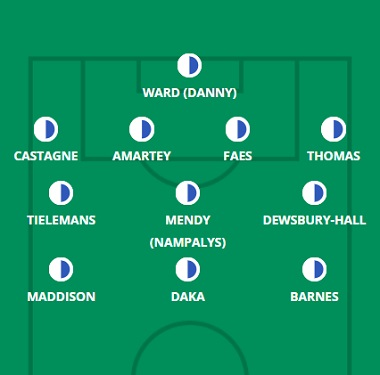
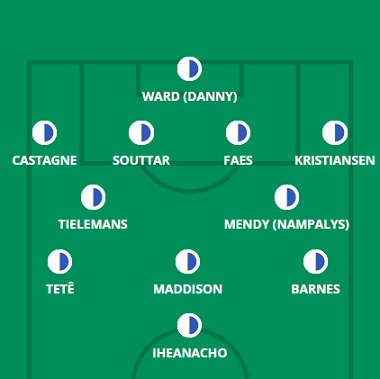
6/20

diff --git a/south.html b/south.html
@@ -63,15 +63,15 @@
     <hgroup>
         <h1> Provável Escalação</h1>
         <h2 class="direita"> por FabioVascão </h2>
-        <h3 class="direita"> Atualizado em 03/Fevereiro/2023 </h3>
+        <h3 class="direita"> Atualizado em 10/Fevereiro/2023 </h3>
     </hgroup>
 
     <div class="selecao"><p><b><img src="images/logos/southampton.png" width="100rem" height="100rem"/> Southampton</b></p></div>
        
     <div class="escalacao">
         <div class="topo">
-            <h2 class="titulo">Ultimas Notícias</h2> <h4><p>Nathan Jones disse na sexta-feira que a desistência de Kyle Walker-Peters contra o Newcastle United no meio da semana foi "precautiva", mas que ele ainda não pode começar em Brentford, enquanto Stuart Armstrong (virilha) e Juan Larios (músculo) devem permanecer de fora apesar de serem descrito como "mais próximo" de um retorno. Há mais confusão em outros lugares também. Quatro veteranos - Moussa Djenepo, Armel Bella-Kotchap, Mislav Orsic e Duje Caleta-Car - jogaram pelo Southampton 'B' na tarde de sexta-feira em uma tentativa de aumentar a preparação física, enquanto as contratações do último dia Paul Onuachu e Kamaldeen Sulemana nem havia treinado quando Jones enfrentou a mídia, com burocracia e autorizações de trabalho entre eles e a estreia na Gameweek 22. A formação de cinco defesas pode não ser a favorita dos torcedores, nem funcionou bem em Newcastle, mas as forças aéreas de Brentford podem convencer Jones a manter essa configuração contra Ivan Toney e companhia, com Jan Bednarek agora de volta do Villa para reforçar o números na parte de trás. O descanso de Romeo Lavia no meio da semana sugere que ele voltará a se envolver aqui, enquanto Romain Perraud pode ser chamado de volta se Walker-Peters não estiver em risco. Sekou Mara é uma alternativa a Adam Armstrong no topo, enquanto Samuel Edozie e Moi Elyounoussi são opções se a largura for preferida; é difícil imaginar Orsic ou Djenepo jogando duas vezes em 24 horas, no entanto.</p></h4><br>
-            <h4><strong>Dúvidas:</strong>  Livramento, Juan Larios, Armstron, McCarthy e Walker-Peters.</h4>
+            <h2 class="titulo">Ultimas Notícias</h2> <h4><p>Tino Livramento (joelho) e Juan Larios (músculo) permanecem de fora, enquanto Nathan Jones foi tímido sobre as chances de Kyle Walker-Peters (coxa) e Stuart Armstrong (virilha) aparecerem ao dizer que a dupla estava "muito mais à frente" do que Larios, mas acrescentando que o Saints só vai "colocá-los em jogos quando estiverem prontos". O Southampton XI é provavelmente um dos mais difíceis de prever esta semana, dada a frequência com que Jones muda sua escalação em uma tentativa de interromper uma sequência alarmante de resultados da liga. O chefe do Saints disse após a derrota para Brentford que havia "comprometido em termos de certos princípios" e "afastado" do que lhe trouxe sucesso em Luton, acrescentando que "não vai fazer isso de novo". Se for uma promessa tática, então há uma chance de vermos o retorno do sistema lateral que lhe trouxe algum sucesso com os Hatters, embora escolhendo qualquer combinação de Lyanco, Jan Bednarek, Mohammed Salisu, Duje Caleta-Car e Armel Bella- Kotchap é um jogo de dados, com os dois últimos curiosamente envolvidos em uma partida do time B 24 horas antes da Gameweek 22. Ibrahima Diallo e Moi Elyounoussi podem ser escolhidos após desistências no intervalo no oeste de Londres, com os recém-chegados Paul Onuachu e Charly Alcaraz empurrando para começar. Sekou Mara, Adam Armstrong, Mislav Orsic, Samuel Edozie e Theo Walcott são outras alternativas nas posições de ataque, mas Jones talvez tenha insinuado que Kamaldeen Sulemana não estaria pronto para começar, dizendo que o Saints "não pode simplesmente açoitar" o ala após uma falta de minutos com o ex-clube Rennes.</p></h4><br>
+            <h4><strong>Dúvidas:</strong>  Livramento, Armstron, McCarthy e Walker-Peters.</h4>
         </div>
         <aside>
             <figure>

diff --git a/nforest.html b/nforest.html
@@ -63,15 +63,15 @@
     <hgroup>
         <h1> Provável Escalação</h1>
         <h2 class="direita"> por FabioVascão </h2>
-        <h3 class="direita"> Atualizado em 03/Fevereiro/2023 </h3>
+        <h3 class="direita"> Atualizado em 10/Fevereiro/2023 </h3>
     </hgroup>
 
     <div class="selecao"><p><b><img src="images/logos/nforest.png" width="100rem" height="100rem"/> N. Forest</b></p></div>
        
     <div class="escalacao">
         <div class="topo">
-            <h2 class="titulo">Ultimas Notícias</h2> <h4><p> Dean Henderson (coxa), Omar Richards (perna), Giulian Biancone (ACL), Moussa Niakhate (coxa), Cheikhou Kouyate (coxa), Jesse Lingard (Aquiles), Taiwo Awoniyi (virilha), Ryan Yates (doença), Morgan Gibbs -White (tornozelo) e o novo garoto Jonjo Shelvey (panturrilha) parecem perder a visita de Leeds, com Jack Colback (doença) o único jogador que Steve Cooper disse que Forest receberia de volta neste fim de semana - embora ele não tenha mencionado Chris Wood (doença), que estava empatado no meio da semana de qualquer maneira. Tudo isso não deixa Cooper com muito o que jogar, apesar da enorme quantidade de atividades de transferência, com dois novos recrutas - Danilo Pereira e Gustavo Scarpa - potencialmente prontos para entrar na Gameweek 21, Yates e Gibbs-White, respectivamente. Emmanuel Dennis e Sam Surridge são alternativas no topo se Wood ainda não tiver se recuperado totalmente, enquanto Keylor Navas pode fazer sua estreia entre os postes às custas do pobre Wayne Hennessey; No entanto, Navas chegou no prazo final, portanto, existe a possibilidade de que alguma burocracia não tenha sido eliminada. Os quatro defensores foram amplamente resolvidos nas últimas seis semanas de jogo, com três jogos sem sofrer golos chegando no processo.</p></h4><br>
-            <h4><strong>Dúvidas:</strong> Biancone, Kouyaté, Shelvey, Yates, Henderson, Wood, Niakhaté, Gibbs-White, Awoniyi, Boly, Lingard e Richards (Omar).</h4>
+            <h2 class="titulo">Ultimas Notícias</h2> <h4><p> Aprendemos até agora a não confiar muito no que Steve Cooper diz nas notícias da equipe, mas na quinta-feira, ele deu a entender que Dean Henderson (coxa), Moussa Niakhate (coxa), Cheikhou Kouyate (coxa), Taiwo Awoniyi (virilha) e Ryan Yates (doença) permaneceria afastado antes do jogo contra o Fulham. Giulian Biancone (ACL) e Omar Richards (perna) também são ausentes de longa data e ficaram de fora dos 25 convocados do Forest para o segundo semestre de 2022/23. O novato Jonjo Shelvey (panturrilha) esteve na grama esta semana e está “perto”, no entanto, então pudemos ver o ex-craque do Newcastle no elenco do Forest pela primeira vez. Cooper manteve as coisas relativamente resolvidas ultimamente após um início de temporada turbulento em termos de entradas e saídas: os recém-chegados Danilo, Chris Wood e Keylor Navas praticamente vieram direto para o lado, enquanto todos os outros no previsto XI bar Scott McKenna e Serge Aurier iniciaram todas as partidas da liga para as quais estiveram disponíveis desde o reinício do Boxing Day. Jack Colback e Sam Surridge foram desviados da hierarquia em meio ao influxo de recém-chegados, mas impressionaram fora do banco no último fim de semana e esperam obter raros começos à frente de duas contratações que não atingiram o solo correndo na forma de Danilo e Wood, com Gustavo Scarpa e Jesse Lingard também alternativos.</p></h4><br>
+            <h4><strong>Dúvidas:</strong> Biancone, Kouyaté, Shelvey, Yates, Henderson, Niakhaté, Awoniyi e Richards (Omar).</h4>
         </div>
         <aside>
             <figure>

diff --git a/liverpool.html b/liverpool.html
@@ -63,15 +63,15 @@
     <hgroup>
         <h1> Provável Escalação</h1>
         <h2 class="direita"> por FabioVascão </h2>
-        <h3 class="direita"> Atualizado em 03/Fevereiro/2023 </h3>
+        <h3 class="direita"> Atualizado em 10/Fevereiro/2023 </h3>
     </hgroup>
 
     <div class="selecao"><p><b><img src="images/logos/liverpool.png" width="100rem" height="100rem"/> Liverpool</b></p></div>
        
     <div class="escalacao">
         <div class="topo">
-            <h2 class="titulo">Ultimas Notícias</h2> <h4><p> Virgil van Dijk (coxa), Arthur (músculo), Diogo Jota (coxa), Luis Diaz (joelho) e Roberto Firmino (panturrilha) estão perto de retornar, mas permanecem de fora, enquanto Ibrahima Konate se juntou a eles devido a uma lesão muscular. Joe Gomez e Joel Matip parecem prestes a começar no meio-campo, enquanto Jurgen Klopp parecia insinuar que Stefan Bajcetic manteria seu lugar ao discutir a queda de Fabinho na sala de máquinas. A escalação que você vê aqui é a que apareceu na FA Cup no fim de semana passado, com exceção de Matip no lugar do ausente Konate. O sistema parecia mais 4-2-3-1 às vezes e viu Naby Keita e Harvey Elliott oferecerem largura, com Cody Gakpo caindo mais fundo e Mohamed Salah jogando mais avançado. Apesar da derrota no Amex, Klopp disse que a exibição o encorajou - então pode não haver mudanças no Molineux. Um jogador que luta pela reconvocação, é claro, é Darwin Nunez, mas o desempenho positivo de Elliott contra o Brighton não torna fácil para o uruguaio recuperar sua vaga. Jordan Henderson e Curtis Jones são outras alternativas no meio-campo, com Alex Oxlade-Chamberlain outra opção entre os três primeiros.</p></h4><br>
-            <h4><strong>Dúvidas:</strong> Firmino, Díaz, Arthur, Diogo Jota, Van Dijk, Konate e Carvalho.</h4>
+            <h2 class="titulo">Ultimas Notícias</h2> <h4><p> Luis Diaz (joelho) e Ibrahima Konate (músculo) permanecem afastados e Thiago Alcantara (quadril) está em dúvida depois de não treinar durante toda a semana, mas o Liverpool recebeu um grande impulso com o retorno aos treinos de Virgil van Dijk (coxa), Arthur Melo (músculo), Diogo Jota (coxa) e Roberto Firmino (panturrilha). Jota parece o mais próximo de uma participação e van Dijk o menos provável de se envolver no derby de Merseyside com base nos comentários pré-jogo de Jurgen Klopp, mas qualquer que seja a combinação de estrelas em forma novamente no elenco em Anfield, seria um choque se algum deles eles são tudo menos substitutos. As perspectivas de Fabinho como titular também estão em questão, apesar de seu retorno aos treinos após doença, com Stefan Bajcetic recebendo elogios de seu técnico recentemente e novamente impressionando na derrota para o Wolves. Jordan Henderson pode conseguir um recall aqui se Thiago não conseguir se recuperar, com Harvey Elliott, James Milner e Curtis Jones como alternativas na sala de máquinas - provavelmente nessa ordem de probabilidade. Elliott teve o azar de perder seu lugar no primeiro lugar em Molineux e estará pressionando para ser incluído entre os três primeiros, com o lugar de Cody Gakpo talvez mais em disputa depois de outra exibição mais ou menos. Na defesa, não se surpreenda se Nat Phillips entrar em disputa no meio-campo, dada a probabilidade de Everton, de Sean Dyche, encher a área da casa com cruzamentos e bolas altas.</p></h4><br>
+            <h4><strong>Dúvidas:</strong> Firmino, Díaz, Arthur, Diogo Jota, Van Dijk, Konate, Fabinho e Alcantara.</h4>
         </div>
         <aside>
             <figure>

diff --git a/leicester.html b/leicester.html
@@ -63,15 +63,15 @@
     <hgroup>
         <h1> Provável Escalação</h1>
         <h2 class="direita"> por FabioVascão </h2>
-        <h3 class="direita"> Atualizado em 03/Fevereiro/2023 </h3>
+        <h3 class="direita"> Atualizado em 10/Fevereiro/2023 </h3>
     </hgroup>
 
     <div class="selecao"><p><b><img src="images/logos/leicester.png" width="100rem" height="100rem"/> Leicester</b></p></div>
        
     <div class="escalacao">
         <div class="topo">
-            <h2 class="titulo">Ultimas Notícias</h2> <h4><p> Jamie Vardy pode ter um retorno mais rápido do que o esperado de uma lesão no glúteo neste fim de semana, tendo sido originalmente descartado por quinze dias antes do empate da FA Cup no fim de semana passado contra Walsall. Ele e a nova contratação Harry Souttar (quadril) serão avaliados antes da viagem para o Aston Villa, mas Jonny Evans (panturrilha), Boubakary Soumaré (tendão da coxa), Ricardo Pereira (Aquiles), Wilfred Ndidi (problema pessoal), James Justin (Aquiles ) e Sammy Braybrooke (joelho) não estarão presentes, com Evans, Pereira e Soumare prontos para intensificar suas recuperações na próxima semana. Patson Daka será o favorito para liderar a linha caso Vardy perca ou não seja arriscado no pontapé de saída, com Kelechi Iheanacho continuamente esquecido como opção inicial por Brendan Rodgers. O defesa-central Souttar, o ponta-direita Tete e o lateral-esquerdo Victor Kristiansen chegaram desde a jornada 21 e Kristiansen é talvez o melhor colocado para começar, tendo experimentado minutos e impressionado como suplente na vitória da taça sobre Walsall. Rodgers disse antes e depois da eliminatória que o dinamarquês estava "um pouco atrasado em termos de preparação física" por causa das férias de inverno em sua terra natal, então Luke Thomas pode ter uma suspensão da execução por enquanto.</p></h4><br>
-            <h4><strong>Dúvidas:</strong> Ricardo Pereira, Braybrooke, Bertrand, Dewsbury-Hall, Evans, Justin, Souttar, Soumaré e Vardy.</h4>
+            <h2 class="titulo">Ultimas Notícias</h2> <h4><p> James Justin (Aquiles) e Sammy Braybrooke (joelho) estão ausentes há muito tempo e Ryan Bertrand (joelho) continua sem condição física para o jogo, mas Wilfred Ndidi (problema pessoal) deve retornar neste fim de semana e há um retorno há muito esperado para Ricardo Pereira (Aquiles ), depois de ter participado de um amistoso no campo de treinamento na terça-feira. Jonny Evans (panturrilha) e Boubakary Soumaré (coxa) também voltaram a treinar esta semana: o primeiro será “avaliado” antes da partida do Spurs, enquanto Soumare parece mais provável de participar da 24ª rodada. com a mesma equipa, com os estreantes Tete e Victor Kristiansen particularmente excelentes nas Midlands. Se houver uma mudança, provavelmente será no meio do parque às custas de Youri Tielemans ou Kiernan Dewsbury-Hall; os Foxes pareciam um pouco suspeitos na retaguarda em Villa Park, então Ndidi ou Nampalys Mendy poderiam ser convocados para fornecer um pouco mais de segurança na frente dos quatro defensores. Rodgers falou sobre as credenciais de Kelechi Iheanacho para sugerir que ele pode vencer Patson Daka e Jamie Vardy novamente no topo, com esses dois atacantes prontos para se juntar a nomes como Pereira, Caglar Soyuncu e Dennis Praet no banco no sábado.</p></h4><br>
+            <h4><strong>Dúvidas:</strong> Braybrooke, Bertrand, Evans, Justin e Soumaré.</h4>
         </div>
         <aside>
             <figure>

diff --git a/spurs.html b/spurs.html
@@ -63,15 +63,15 @@
     <hgroup>
         <h1> Provável Escalação</h1>
         <h2 class="direita"> por FabioVascão </h2>
-        <h3 class="direita"> Atualizado em 03/Fevereiro/2023 </h3>
+        <h3 class="direita"> Atualizado em 10/Fevereiro/2023 </h3>
     </hgroup>
 
     <div class="selecao"><p><b><img src="images/logos/tottenham.png" width="100rem" height="100rem"/> Tottenham</b></p></div>
        
     <div class="escalacao">
         <div class="topo">
-            <h2 class="titulo">Ultimas Notícias</h2> <h4><p> O regresso à forma de Richarlison (coxa) e Lucas Moura (tendão) deixa os Spurs com um plantel praticamente em forma, reforçado com a contratação de Pedro Porro. O chefe assistente Cristian Stellini disse que Porro "poderia" realmente jogar neste fim de semana, embora, dado que Emerson Royal, mais defensivo, tenha desfrutado de um de seus melhores momentos de forma ultimamente (relativamente falando), os Lilywhites podem optar por facilitar o novo ala direito - de volta à vida na Premier League em um jogo menos assustador. O lado que você vê aqui é o que venceu por 2 a 0 no Etihad antes de perder um thriller de seis gols, com Antonio Conte mantendo o mesmo XI na vitória por 1 a 0 no Fulham. É difícil ver muita mudança além dos laterais, com Ivan Perisic bem abaixo da média ultimamente e potencialmente em risco - mas Ryan Sessegnon dificilmente tem feito uma afirmação convincente, falhando em impressionar contra Preston na copa. Richarlison, Lucas e Arnaut Danjuma finalmente oferecem aos Spurs alguma profundidade no topo, mas seria um choque ver algo diferente dos habituais três atacantes contra o City.</p></h4><br>
-            <h4><strong>Dúvidas:</strong> Sarr.</h4>
+            <h2 class="titulo">Ultimas Notícias</h2> <h4><p> Hugo Lloris vai ficar cinco a sete semanas afastado dos relvados devido a uma lesão num joelho, enquanto Yves Bissouma foi submetido a uma cirurgia ao tornozelo na sexta-feira e enfrenta agora um período de inatividade. Os Spurs também perderam Cristian Romero por suspensão após seu cartão vermelho no fim de semana passado, mas além desse trio, os Lilywhites têm uma equipe totalmente apta para a viagem a Leicester. O time do Spurs permaneceu inalterado nas últimas três partidas do campeonato, com desempenhos melhorando contra Manchester City e Fulham, mas Antonio Conte será forçado a pelo menos duas alterações neste fim de semana com Lloris e Romero fora. Fraser Forster substituirá o primeiro, embora provavelmente seja uma luta direta entre Davinson Sanchez e Clement Lenglet (desculpas a Japhet Tanganga) pela posição vaga de Romero - se Lenglet conseguir o aceno, Eric Dier passará para o centro-direito. meio papel em uma ligeira remodelação. O próximo empate da Liga dos Campeões contra o AC Milan pode estar no fundo da mente de Conte em relação aos minutos administrados, mas com cinco dias para se recuperar entre essa partida e a rodada 24, provavelmente não haverá mudanças no atacado no King Power Stadium. Ryan Sessegnon, Pedro Porro, Richarlison, Arnaut Danjuma e Lucas Moura finalmente oferecem aos Spurs um pouco de força em profundidade, com as posições laterais provavelmente a principal causa de preocupação quando os Lilywhites enfrentam uma semana de três jogos.</p></h4><br>
+            <h4><strong>Dúvidas:</strong> Romero, Bissouma e Lloris.</h4>
         </div>
         <aside>
             <figure>

diff --git a/newcastle.html b/newcastle.html
@@ -63,15 +63,15 @@
     <hgroup>
         <h1> Provável Escalação</h1>
         <h2 class="direita"> por FabioVascão </h2>
-        <h3 class="direita"> Atualizado em 03/Fevereiro/2023 </h3>
+        <h3 class="direita"> Atualizado em 10/Fevereiro/2023 </h3>
     </hgroup>
 
     <div class="selecao"><p><b><img src="images/logos/newcastle-united.png" width="100rem" height="100rem"/> Newcastle</b></p></div>
        
     <div class="escalacao">
         <div class="topo">
-            <h2 class="titulo">Ultimas Notícias</h2> <h4><p> Matt Targett (calcanhar), Javier Manquillo (joelho) e Emil Krafth (joelho) se juntaram a Bruno Guimarães, que agora começa uma suspensão de três jogos após ser expulso no meio da semana. Também seria uma surpresa ver a participação de Alexander Isak, com Eddie Howe dizendo na sexta-feira que o atacante sueco havia sofrido "leves" sinais de concussão na vitória de terça-feira sobre o Southampton, mas que não tinha certeza se poderia enfrentar o West Ham. no sábado; se for uma concussão, não importa o quão leve, então ele perde, e sua ausência nas imagens do campo de treinamento sugere que será o caso. O XI dos Magpies permaneceu praticamente inalterado nas últimas nove semanas de jogo, exceto uma ou duas ausências forçadas, então a única alteração necessária para cobrir o Guimarães provavelmente será o único ajuste de escalação em St James 'Park. A ausência de outros meio-campistas centrais disponíveis - o jovem Elliot Anderson - provavelmente fará com que Joelinton volte para a sala de máquinas, deixando um espaço para Allan Saint-Maximin, Jacob Murphy ou a nova contratação de Anthony Gordon no flanco esquerdo. O dinheiro inteligente estaria em Saint-Maximin, após suas recentes contribuições do banco.</p></h4><br>
-            <h4><strong>Dúvidas:</strong> Krafth, Manquillo, Isak, Targett e Bruno Guimarães.</h4>
+            <h2 class="titulo">Ultimas Notícias</h2> <h4><p> Matt Targett (calcanhar), Javier Manquillo (joelho) e Emil Krafth (joelho) permanecem de fora, assim como o castigado Bruno Guimarães. Alexander Isak está de volta ao time, no entanto, tendo ficado de fora da Gameweek 22 devido aos protocolos de concussão. O XI dos Magpies permaneceu praticamente inalterado nas últimas dez semanas de jogo, exceto uma ou duas ausências forçadas, então o único ponto de interrogação menor provavelmente será sobre quem substitui Guimarães. O esperado aconteceu na semana passada, quando vimos Joelinton recuar para o meio-campo e Allan Saint-Maximin entrar no flanco esquerdo, mas a exibição errática do francês, além de uma participação brilhante do novo contratado Anthony Gordon, deixou algumas dúvidas sobre quem levaria para o campo em Bournemouth. No entanto, Eddie Howe parecia apoiar Saint-Maximin em sua pressão pré-jogo, dizendo que o ala se beneficia de "uma sequência consistente de jogos" e tem "uma janela e uma oportunidade para impressionar".</p></h4><br>
+            <h4><strong>Dúvidas:</strong> Krafth, Manquillo, Targett e Bruno Guimarães.</h4>
         </div>
         <aside>
             <figure>

diff --git a/index.html b/index.html
@@ -34,18 +34,18 @@
   <main>
     <div class="principal">
       <hgroup>
-        <h1> Escalação da 22° Rodada do Fantasy da Premier League </h1>
+        <h1> Escalação da 23° Rodada do Fantasy da Premier League </h1>
         <h2> por FabioVascão </h2>
-        <h3> Atualizado em 03/Fevereiro/2023 </h3>
+        <h3> Atualizado em 10/Fevereiro/2023 </h3>
       </hgroup>
-        <h2 class="titulo">  22° Rodada da Premier League - Time do Canal </h2>       
-        <img src="images/fixos/time22rodada.jpg" alt="Escalação da 22° Rodada do Fantasy da Premier League"/>   
-        <h4><p><strong>Escalação:</strong> Pope, Trippier, Wan Bissaka, Shaw, Odegaard, Saka, Rashford(C), Mahrez, Haaland, Nketiah e Kane.</p></h4><br>
-        <h4><p><strong>Banco:</strong> Ward, Almirón, Estupiñán e Akanji.</p></h4><br>
+        <h2 class="titulo">  23° Rodada da Premier League - Time do Canal </h2>       
+        <img src="images/fixos/time23rodada.jpg" alt="Escalação da 23° Rodada do Fantasy da Premier League"/>   
+        <h4><p><strong>Escalação:</strong> Pope, Trippier, Akanji, Shaw, Odegaard, Saka, Rashford, Mahrez(VC), Haaland(C), Nketiah e Kane.</p></h4><br>
+        <h4><p><strong>Banco:</strong> Ward, Almirón, Estupiñán e Wan-Bissaka.</p></h4><br>
         
-        <h2 class="titulo"> Dicas para 22° Rodada </h2>  
+        <h2 class="titulo"> Dicas para 23° Rodada </h2>  
         <div class="video"> 
-          <iframe width="95%" height="315" src="https://www.youtube.com/embed/ufJ1CAnC-90" title="YouTube video player" frameborder="0" allow="accelerometer; autoplay; clipboard-write; encrypted-media; gyroscope; picture-in-picture; web-share" allowfullscreen></iframe>
+          <iframe width="95%" height="315" src="https://www.youtube.com/embed/4_Jnnd9stQU" title="YouTube video player" frameborder="0" allow="accelerometer; autoplay; clipboard-write; encrypted-media; gyroscope; picture-in-picture; web-share" allowfullscreen></iframe>
         </div>
     </div>
     <div class="lateral">

diff --git a/noticias.html b/noticias.html
@@ -33,6 +33,17 @@
   </header>
   <main>
     <div class="principal">
+
+      <hgroup>
+        <h1> Escalação da 22° Rodada do Fantasy da Premier League </h1>
+        <h2> por FabioVascão </h2>
+        <h3> Atualizado em 10/Fevereiro/2023 </h3>
+      </hgroup>
+        <h2 class="titulo">  23° Rodada da Premier League - Time do Canal </h2>       
+        <img src="images/fixos/time23rodada.jpg" alt="Escalação da 23° Rodada do Fantasy da Premier League"/>   
+        <h4><p><strong>Escalação:</strong> Pope, Trippier, Akanji, Shaw, Odegaard, Saka, Rashford, Mahrez(VC), Haaland(C), Nketiah e Kane.</p></h4><br>
+        <h4><p><strong>Banco:</strong> Ward, Almirón, Estupiñán e Wan-Bissaka.</p></h4><br>
+        
       <hgroup>
         <h1> Escalação da 22° Rodada do Fantasy da Premier League </h1>
         <h2> por FabioVascão </h2>
